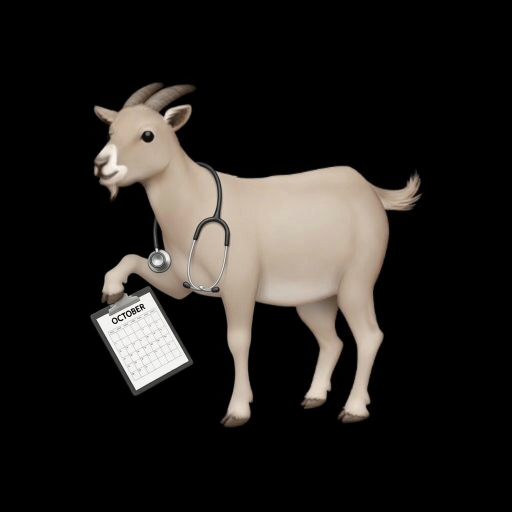
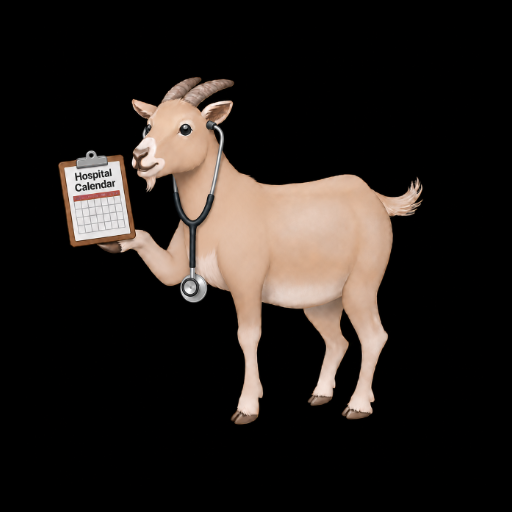
Resizing fix

Changed region(s): [[0.0938, 0.125, 0.8438, 0.8438]]

diff --git a/app/page.tsx b/app/page.tsx
@@ -90,7 +90,7 @@ export default function HomePage() {
   function jumpToDay(day: Date) {
     const carousel = carouselRef.current;
     if (carousel) {
-      carousel.style.transition = "opacity 200ms ease";
+      carousel.style.transition = "opacity 400ms ease";
       carousel.style.opacity = "0";
     }
     setTimeout(() => {
@@ -103,7 +103,7 @@ export default function HomePage() {
         el.style.transform = `translateX(${-getWidth()}px)`;
       }
       if (carousel) {
-        carousel.style.transition = "opacity 500ms ease";
+        carousel.style.transition = "opacity 1000ms ease";
         carousel.style.opacity = "1";
       }
     }, 120);
@@ -116,7 +116,7 @@ export default function HomePage() {
     if (carousel) {
       carousel.style.opacity = "0";
       requestAnimationFrame(() => {
-        carousel.style.transition = "opacity 500ms ease";
+        carousel.style.transition = "opacity 1000ms ease";
         carousel.style.opacity = "1";
       });
     }
@@ -126,6 +126,17 @@ export default function HomePage() {
     if (!el) return;
     el.style.transition = "none";
     el.style.transform = `translateX(${-width}px)`;
+
+    // Recalculate on resize (e.g. orientation change)
+    function onResize() {
+      if (isAnimating.current) return;
+      const w = containerRef.current?.offsetWidth ?? window.innerWidth;
+      el!.style.transition = "none";
+      el!.style.transform = `translateX(${-w}px)`;
+    }
+
+    window.addEventListener("resize", onResize);
+    return () => window.removeEventListener("resize", onResize);
   }, []);
 
   useEffect(() => {

diff --git a/components/WeekBar.tsx b/components/WeekBar.tsx
@@ -41,6 +41,16 @@ export default function WeekBar({ selectedDay, onSelectDay, weekDate, setWeekDat
     if (!el) return;
     el.style.transition = "none";
     el.style.transform = `translateX(${-getWidth()}px)`;
+
+    // Recalculate on resize (e.g. orientation change)
+    function onResize() {
+      if (isAnimating.current) return;
+      el!.style.transition = "none";
+      el!.style.transform = `translateX(${-getWidth()}px)`;
+    }
+
+    window.addEventListener("resize", onResize);
+    return () => window.removeEventListener("resize", onResize);
   }, []);
 
   function setTranslate(px: number, animated: boolean) {